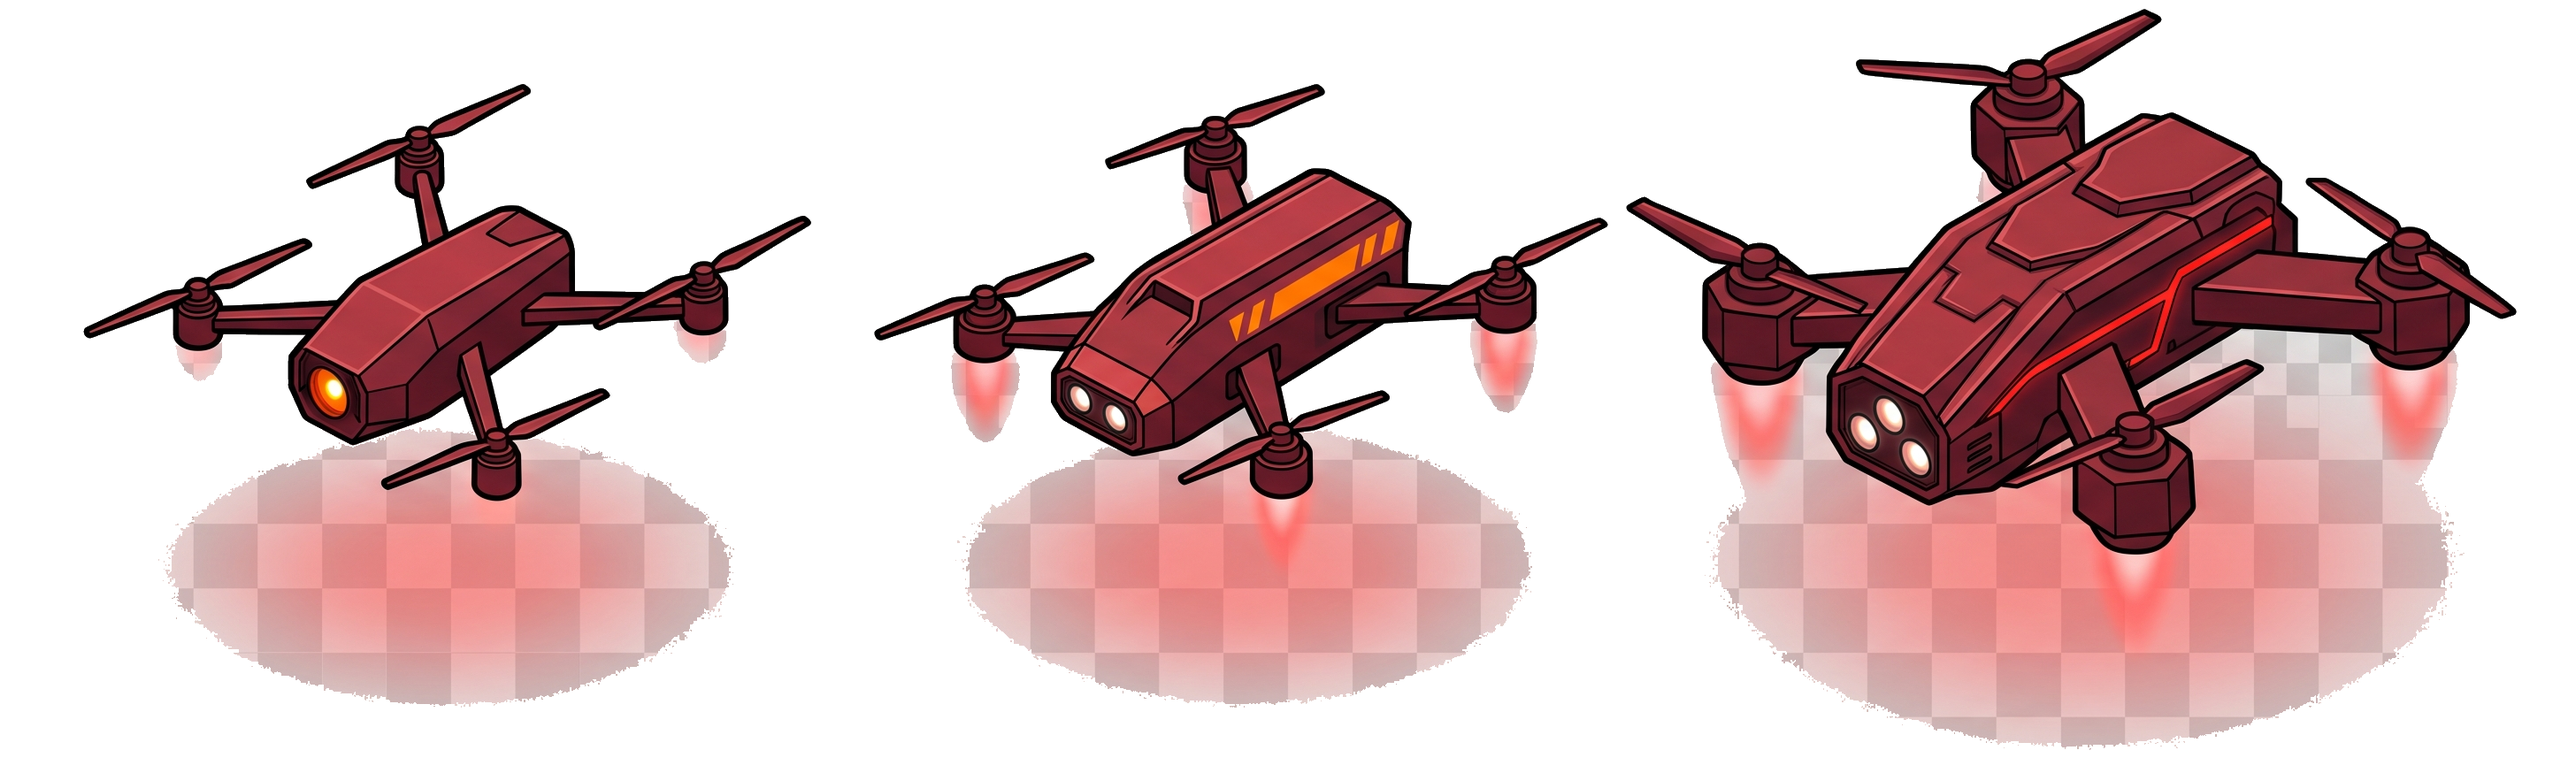
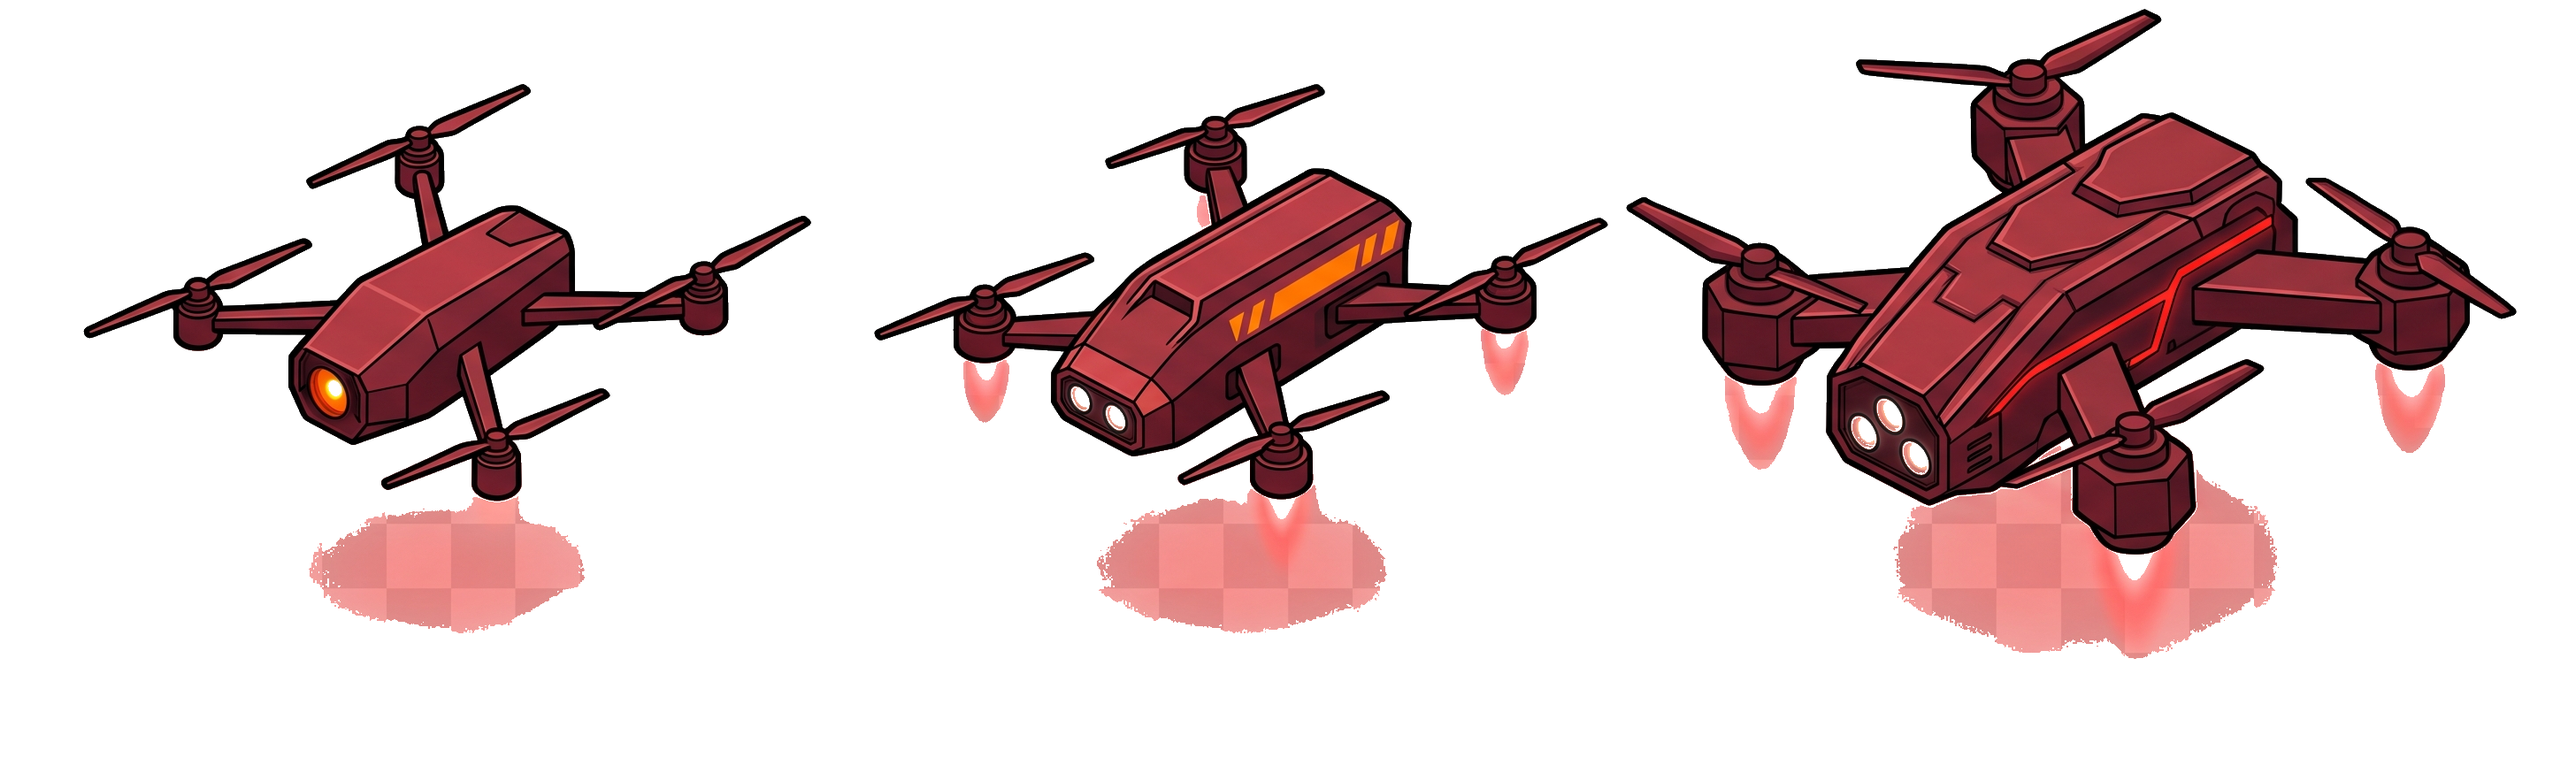
fix(art): remove checkerboard halo around the raider sprites
The drone sheet's engine glow was flattened over the transparency checkerboard,
so those pixels weren't neutral grey and survived the background strip — with
the gunship's tint they showed as a pink checkerboard halo around the craft.
Dropped the pale washed-out haze (light but unsaturated) while keeping the solid
hull and the saturated engine light, and folded the same rule into
tools/strip_bg.py so future sheets are cleaned the same way.

Claude-Session: https://claude.ai/code/session_0186vN2avSgiiTw1ksRkMw2a

diff --git a/tools/strip_bg.py b/tools/strip_bg.py
@@ -44,6 +44,14 @@ def strip(path):
     out = np.asarray(im).copy()
     out[bg, 3] = 0
 
+    # Semi-transparent glow flattened onto the checkerboard isn't neutral, so the
+    # test above misses it and it shows up as a coloured checker halo. Those
+    # pixels stay pale and washed out, unlike the solid subject or a saturated
+    # light source — drop them too.
+    sat = mx - mn
+    haze = (out[..., 3] > 0) & (lum >= 150) & (sat <= 85)
+    out[haze, 3] = 0
+
     # Feather the 1px fringe so edges aren't harsh.
     edge = bg ^ ndimage.binary_erosion(bg)
     keep_edge = edge & ~bg
